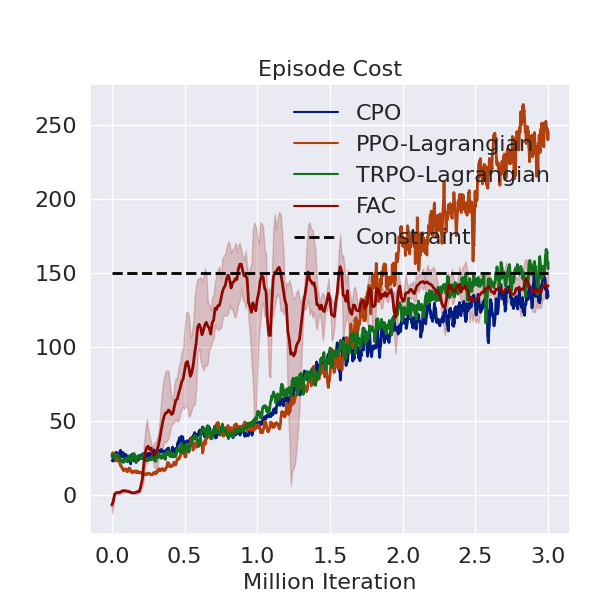
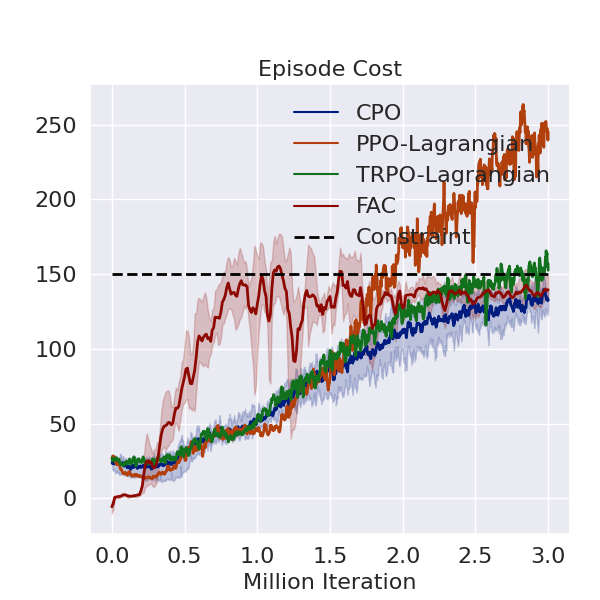
roll back rew shift

diff --git a/train_script4fsac_walker.py b/train_script4fsac_walker.py
@@ -111,7 +111,7 @@ def built_FSAC_parser():
     parser.add_argument('--gradient_clip_norm', type=float, default=10.)
     parser.add_argument('--lam_gradient_clip_norm', type=float, default=3.)
     parser.add_argument('--num_batch_reuse', type=int, default=1)
-    parser.add_argument('--cost_lim', type=float, default=10.0)
+    parser.add_argument('--cost_lim', type=float, default=20.0)
     parser.add_argument('--mlp_lam', default=True) # True: fsac, false: sac-lagrangian todo: add to new algo
     parser.add_argument('--double_QC', type=bool, default=False)
 
@@ -174,8 +174,8 @@ def built_FSAC_parser():
     num_future_data = parser.parse_args().num_future_data
     parser.add_argument('--obs_scale', type=list, default=None)
     parser.add_argument('--rew_ptype', type=str, default='scale')
-    parser.add_argument('--rew_scale', type=float, default=0.1)
-    parser.add_argument('--rew_shift', type=float, default=-1.)
+    parser.add_argument('--rew_scale', type=float, default=0.2)
+    parser.add_argument('--rew_shift', type=float, default=0.)
 
     # Optimizer (PABAL)
     parser.add_argument('--max_sampled_steps', type=int, default=0)

diff --git a/learners/sac.py b/learners/sac.py
@@ -279,7 +279,7 @@ class SACLearnerWithCost(object):
     def compute_clipped_double_q_target(self):
         processed_rewards = self.preprocessor.tf_process_rewards(self.batch_data['batch_rewards']).numpy()
         processed_obs_tp1 = self.preprocessor.tf_process_obses(self.batch_data['batch_obs_tp1']).numpy()
-        dones = self.batch_data['batch_dones'].numpy()
+        dones = self.batch_data['batch_dones']
 
         act_tp1, logp_tp1 = self.policy_with_value.compute_action(processed_obs_tp1)
 

diff --git a/data_process/lineplot_mujoco.py b/data_process/lineplot_mujoco.py
@@ -24,7 +24,7 @@ fsac_final_list = ['conti100HalfCheetah-2021-05-13-20-58-14-s4', 'conti100HalfCh
 ylim_dict = {'episode_return':{'HalfCheetah': [-1000,2500]},'episode_cost':{}}
 
 def help_func():
-    tag2plot = ['episode_cost']
+    tag2plot = ['episode_return']
     alg_list = ['CPO','PPO-Lagrangian','TRPO-Lagrangian', 'FSAC',] # 'FSAC', 'CPO', 'SAC','SAC-Lagrangian',
     lbs = ['CPO','PPO-Lagrangian','TRPO-Lagrangian', 'FAC'] # 'FSAC', 'CPO', 'SAC','SAC-Lagrangian',
     task = ['Ant']

diff --git a/evaluator.py b/evaluator.py
@@ -346,6 +346,8 @@ class EvaluatorWithCost(object):
                 reward_list.append(reward[0])
                 info_list.append(info[0])
                 velo_list.append(velo)
+                t = len(reward_list) - 1
+                ep_discounted_cost += self.args.cost_gamma ** t * velo
         episode_return = sum(reward_list)
         episode_len = len(reward_list)
         info_dict = dict()
